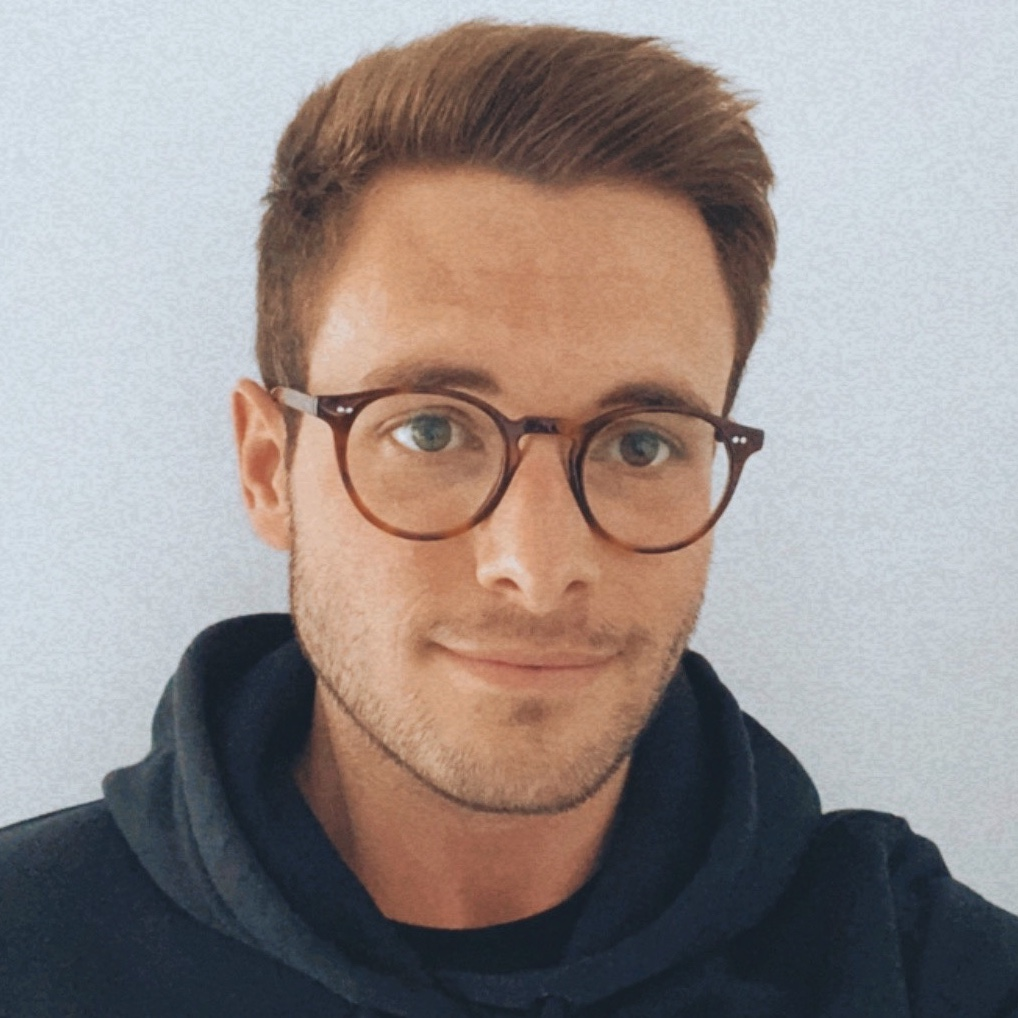
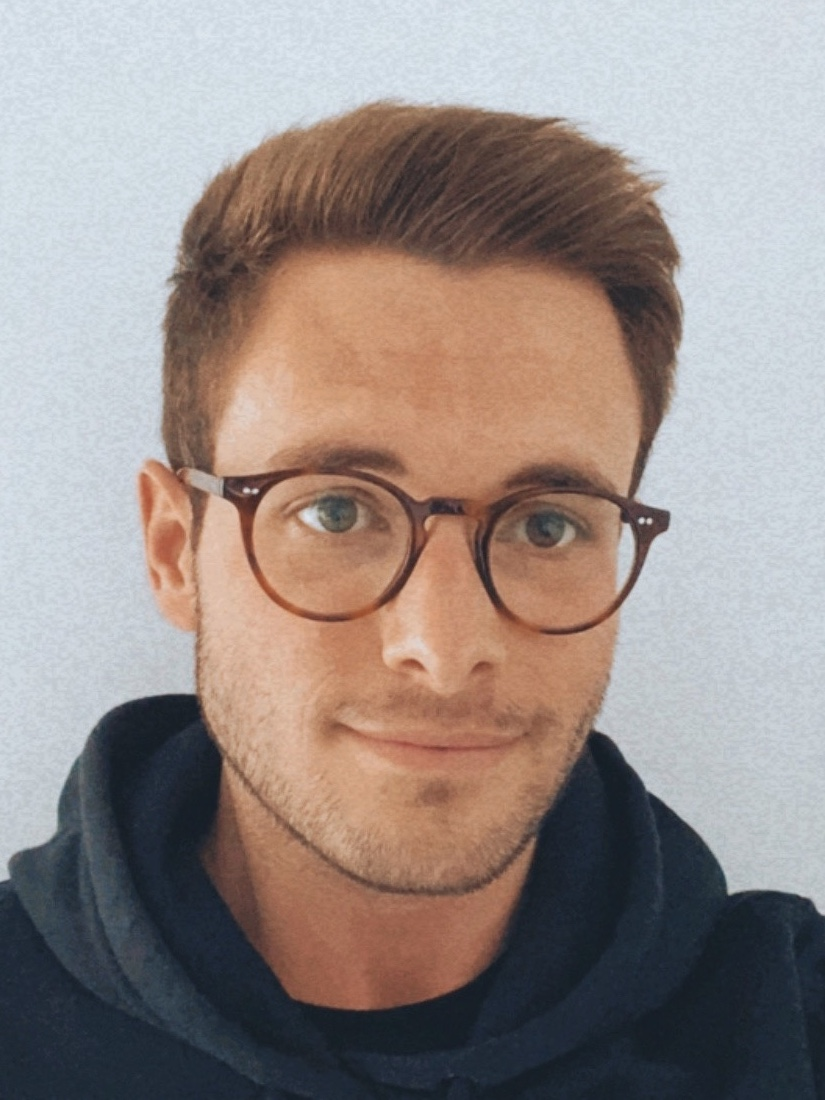
Changed the aspect ratio of the headshot

diff --git a/base.css b/base.css
@@ -44,18 +44,18 @@ img {
 }
 
 #headshot_container {
-	height: 142px;
-	width: 142px;
-	border-radius: 50%;
+	width: 126px;
+	height: 164px;
+	border-radius: 12px;
 	background-image: linear-gradient(rgb(186, 62, 138), #fba051);
 	float: left;
-	margin-right: 8px;
+	margin-right: 16px;
 }
 
 #headshot {
-	width: 128px;
-	height: 128px;
-	border-radius: 50%;
+	width: 112px;
+	height: 150px;
+	border-radius: 12px;
 	border: 4px solid #fff;
 	margin-top: 3px;
 }
